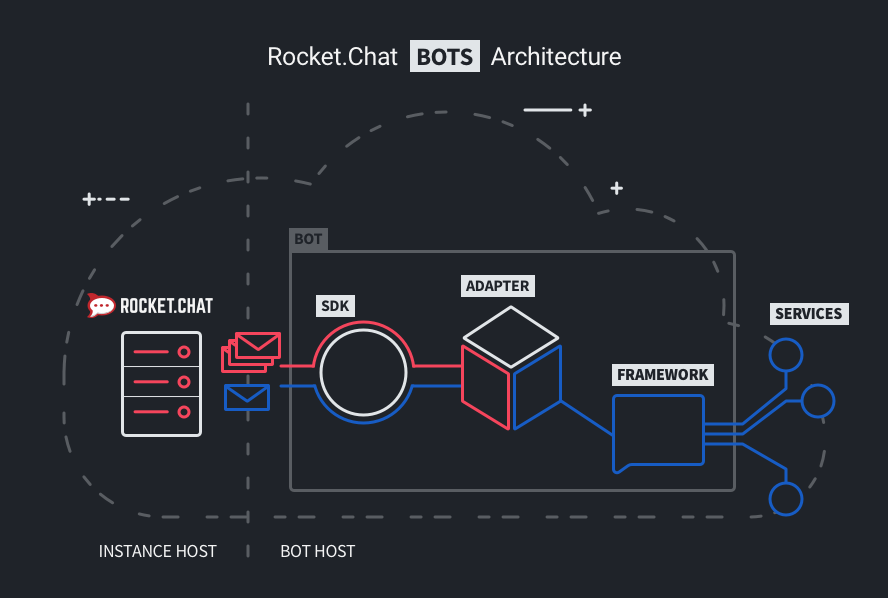
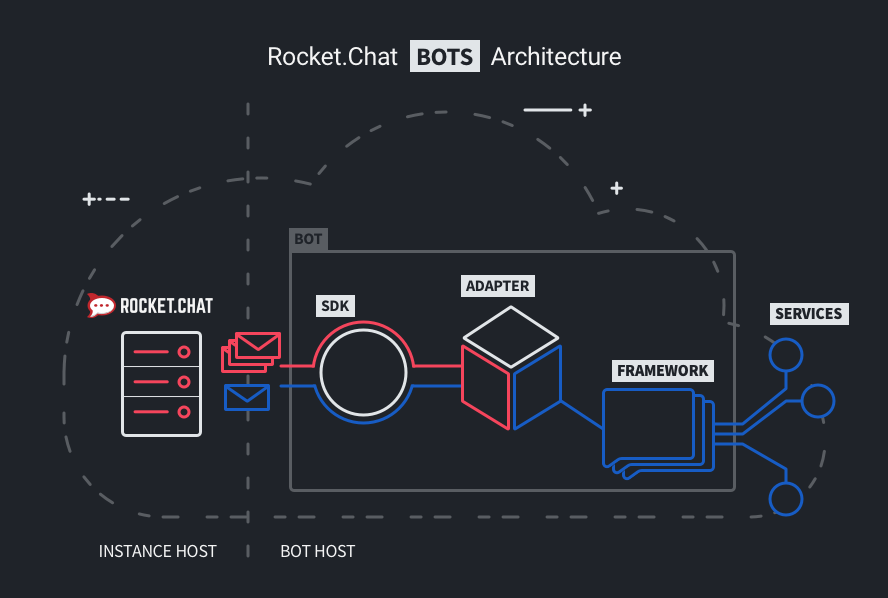
Update Documentation: Bots Architeture (#1313)
* Revised bots architeture page. Added more context to make working principles more clear

* Added framework scalability to the bot architectural diagram. Added section describing the importance of scalability for bots

* First edit

* Updated the architecture doc after mentions. Removed redundancy

* Fixed markdown linter errors

* Fixed minor wording inconsistency

Changed region(s): [[0.6689, 0.602, 0.8209, 0.8127]]

diff --git a/bots/bots-architecture/README.md b/bots/bots-architecture/README.md
@@ -2,33 +2,46 @@
 
 ![Bots Architecture Diagram](./diagram.png){:style="width='100%' height='auto'"}
 
-The above diagram illustrates the relationship between a Rocket.Chat server
-and a chatbot framework or platform. Not all bot frameworks operate the same
-way, but the general concepts apply. See below for more detailed definitions.
+The above diagram illustrates the general concepts of how a Rocket.Chat server
+communicates with a chatbot framework or platform. These concepts are applicable
+to [**external**](../) bots.
 
-This would apply to **external** bots. For a definition of external vs internal
-bots, see the [Bots Overview](../).
+Bots architecture consists of two main parts: Rocket.Chat host and [bot host](#bots-host).
+These two parts are connected with each other via [Rocket Chat SDK](#rocketchat-sdk) methods.
+Bot host runs externally to the Rocket.Chat host and consists of SDK, [adapter](#framework-adapter),
+[framework](#bot-framework) and, typically, external [services](#external-services).
+
+A bot, being subscribed to room's messages (all or specific ones) handles these
+messages and responds back to the user in an interactive manner. The conversational model
+can be designed and managed by tooling and frameworks on the bot host.
+
+Today, many bots are created using bot frameworks or platforms based on popular programming
+languages, such as NodeJS and Python.
 
 ## Users and Bots
 
-Bots in Rocket.Chat require a user account, with the `bot` role. Other than
-having certain specific permissions, they are mostly treated just like regular
-users within the Rocket.Chat instance. Users with a bot role will also have a
-"Bot" tag displayed, so they can't play tricks on us humans.
+Bots in Rocket.Chat require user accounts with the `bot` role. Other than having
+a specific set of permissions, bot accounts are treated like regular user accounts
+within the Rocket.Chat host. However, to prevent possible user confusion, messages
+from online bots are marked with a default "Bot" label.
 
 ## Bot Admin
 
-Admins (and only admins) can create and configure the bot account and role
-permissions. They set which user fields the bots have access to for privacy
-and security and the credentials a bot uses to connect. We're working on better
-management views for bots and the future potential of user-activated bots.
+Admins (and only admins) can create the bot account and configure role
+permissions. This includes setting the credentials a bot uses to connect
+as well as which user fields the bots have access to for privacy and security.
+Rocket.Chat team works on improving management views for bots and enhancing
+the future potential of user-activated bots.
 
-## Hosting Bots
+## Bots Host
 
-External bots are either hosted by the chatbot platform or a custom host set up
-by their creator (e.g. using Heroku, Glitch or Docker). Node.js is a popular
-language in the space, so we provide utilities catered for Node development, but
-not all bots run on Node.js.
+A bot host is a machine where bots run. It can be a bare-metal server, a network
+cluster, a virtualized environment or cloud-based.
+
+A bot host can manage and run many different bots as well as many instances of any bot.
+
+The bot host typically manages connections to [external services](#external-services)
+as well.
 
 ## Message Streams
 
@@ -37,31 +50,52 @@ emitted by the server's streamer. Bots subscribe to the collection of messages
 for their own user account, creating a stream that is updated every time a
 message is sent either directly to them or any room they are joined in.
 
-## Rocket.Chat JS SDK
+## Rocket.Chat SDK
 
-The SDK is a Node.js module that provides an interface for external applications
-to subscribe to message streams, send messages and call methods on the
-Rocket.Chat server (via WebSockets / DDP). It would be a dependency of most bots
-built on Node.js and we're working on a Python translation as well.
+The SDK is a low-level software module that offers an interface for external
+consumers to subscribe to message streams, send messages, and call methods on the
+Rocket.Chat server via WebSockets / DDP.
 
-## Framework Adapters
+Bot framework adapter are written using the SDK.
 
-Adapters, sometimes referred to as **connectors** or **middleware**, provide the
-parsing of message schemas and methods between the chatbot framework and the
-Rocket.Chat SDK. Once loaded into a project, they allow bot creators to compose
-interactions in the framework's terms, ignoring the specific requirements of
-Rocket.Chat.
+## Framework Adapter
 
-## Bot Frameworks
+An adapter (also referred as **connector** or **middleware**) is a software component
+that is used to link the framework with the Rocket.Chat host.
 
-Bot frameworks such as Hubot, Botkit, Rasa and Botpress each provide unique
-approaches to composing conversational interfaces. Some run their own hosting
-for bots, some just provide the code for you to run yourself. Due to the magic
-of adapters, our architecture is mostly independent to your choice of framework.
+An adapter allows bot creators to design and build bot interactions according to the
+framework's rules and practices without dealing with the low-level programming
+details of the communication with the Rocket.Chat host.
+
+Adapters use Rocket.Chat SDK to communicate with the Rocket.Chat host.
+
+## Bot Framework
+
+Bot frameworks (such as Hubot, Botkit, Rasa or Botpress) provide unique
+approaches to create conversational interfaces and allow developers
+to focus on the design and management of complex bot logic.
+
+Most of framworks can be run on your own bot host. There are also frameworks
+that operate as SaaS (Software as a Service), so they work in the cloud.
+
+Most of the popular frameworks have adapters created by the Rocket.Chat's community.
+
+## Bot Scaling
+
+In production, hundreds or thousands of users can be carrying out conversations with a bot
+at the same time. The ability to scale a bot from one conversation to many concurrent ones
+is essential.
+
+Bot frameworks/platforms support varying degrees of scalability. To ensure that growing number
+of users will not cause architectural and performance problems, you should choose your bot's
+framework wisely. For example, considerng potential scalability issues even before you start
+implementing your bot's logic
 
 ## External Services
 
-Bots often call external services to provide data or conversational processing.
-This is conducted from scripts implementing the bot's framework utilities,
-whether it's the bot's own platform provider or NLP service, or some other API,
-like a weather service or your own business logic provider.
+The value of most production bots relies on their ability to access and manipulate external
+data and systems (services). External services, like databases, scheduling systems, CRM, NLP
+can be used to provide data or conversational processing.
+
+The framework simplifies connection of a bot with these services and ensures ease of access to
+them through the bot host.

diff --git a/bots/README.md b/bots/README.md
@@ -38,7 +38,7 @@ These are the basic steps for using bots with Rocket.Chat:
 1. A bot user is [created by an admin](creating-bot-users/) on the server;
 2. The bot is running as [a separate process](bots-architecture/) using your chosen framework or platform;
 3. The bot environment is pre-configured with [environment variables](configure-bot-environment/);
-4. The bot's behaviour is defined via scripts according to the requirements of your framework. For example, check the details on how to [run a bBot bot](running-a-bbot-bot/).
+4. The bot's behavior is defined via scripts according to the requirements of your framework. For example, check the details on how to [run a bBot bot](running-a-bbot-bot/).
 
 ## Next steps
 
